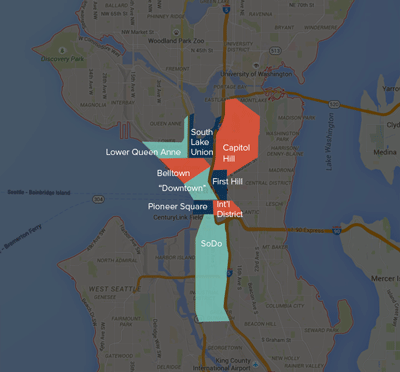
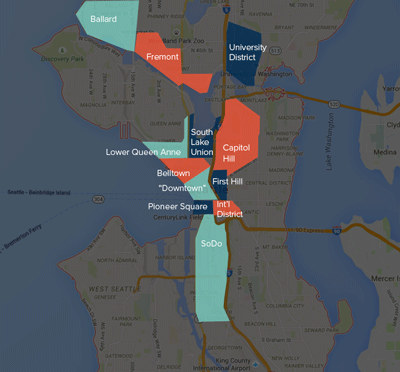
Finished layouts for Visiting Seattle and Registry across all responsive states

Changed region(s): [[0.18, 0.0, 0.54, 0.2661], [0.54, 0.0591, 0.66, 0.2366]]

diff --git a/index.html b/index.html
@@ -74,12 +74,15 @@
 					</div>
 					<div class="sectionContent">
 						<h3 >Where to Stay</h3>
+
+						<img id="neighborhoodMap" src="imgs/visitingSeattleMap_sm.png">
 							<p>Downtown, Belltown, Lower Queen Anne, Capital Hill, First Hill, South Lake Union, International District, and SoDo are a walk or bus ride from Seattle's most popular tourist attractions. Ballard, Fremont, or the University District are a little farther out, but can be feasible and less expensive. The University District has pretty good bus service to downtown, too. Street parking might be tricky, though.</p>
 
 							<p>Staying outside of downtown can mean you'll be in surban areas that don't have much going on, and getting to what you want to see might mean traffic and paying for parking. <a class="darkbg" href="https://www.airbnb.com/">AirBNB</a> can be a great alternative to hotels, both because they can be more affordable and because you can stay in a part of the city that Seattlites live in, too. </p>
 
-							<p><h4>See also</h4>
-								<ul class="seealso">
+							<div class="seealso">
+								<h4>See also</h4>
+								<ul>
 									<li>
 										<a class="darkbg" href="http://www.tripadvisor.com/Travel-g60878-s301/Seattle:Washington:Arriving.And.Departing.html">Arriving &amp; Departing Seattle</a>
 									</li>
@@ -93,7 +96,7 @@
 										<a class="darkbg" href="http://www.frommers.com/destinations/seattle/702031#sthash.PcgJSOXY.dpbs">Frommer's guide to Seattle neighborhoods</a>
 									</li>
 								</ul>
-							</p>
+							</div>
 						<h3>Parking &amp; Driving</h3>
 						<p>If you stay in the downtown corridor and don't plan to venture much outside of the neighborhoods listed in <a class="darkbg" href="">Where to Stay</a>, public transit can be a viable option. What you save in rental car fees may be offset by cost of housing, though, as it can be pricey. The area around the Westland Distillery has few public transit options on Saturday nights, unfortunately, so expect to take a cab or an Uber/Lyft to get there and back. </p>
 
@@ -102,14 +105,16 @@
 						<p>Street parking is a hassle, like in most cities. If you're renting a car, make sure to ask about your parking options before booking a place to stay. </p>
 
 						<h3>What to See &amp; Do</h3>
+						<img id="pikeplace" src="imgs/pikeplace.jpg">
 						<p>We picked September because the weather in Seattle is reliably pretty nice. Pack layers, but expect it to be relatively mild and, unless we're deeply unlucky, dry &#40;it turns out that it doesn't always rain in Seattle, but Seattlites prefer that you think it does&#41;. The days will be pretty long and the sunsets should be gorgeous.</p>
 
 						<p>We chose a weekend with no big events going on, but nice weather means that the locals are out and about as much as the tourists. Traffic might be a pain and trendy restaurants will be busier than usual, so plan ahead, especially if you're going anywhere that requires you to use a highway, cross a body of water, or both.</p>
 
 						<p>Seattle has a thriving music scene, great food and coffee, and more micro-breweries and micro-distilleries than you can shake a stick at. Each neighborhood has its own things to see and eat, to the point that Seattle can feel more like a collection of neighborhood islands more than a cohesive city. In the city proper, neighborhoods tend to be easily walkable, but if the word <q>hill</q> is in the name, you might be in for a workout. In the suburbs, a car is pretty necessary.</p>
 
-						<p><h4>See also</h4>
-							<ul class="seealso">
+						<div class="seealso">
+							<h4>See also</h4>
+							<ul>
 								<li>
 									<a class="darkbg" href="http://www.tripadvisor.com/Travel-g60878-c2242/Seattle:Washington:One.Day.Itinerary.Without.A.Car.html">Seattle: One Day Itinerary Without a Car</a>
 								</li>
@@ -118,7 +123,7 @@
 								<li><a class="darkbg" href="http://www.seattlemet.com/travel-and-outdoors/articles/30-day-trips-seattle-october-2011/2/">30 Perfect Seattle Day Trips</a>
 								</li>
 							</ul>
-						</p>
+						</div>
 					</div>
 				</div>
 			</section>
@@ -132,11 +137,11 @@
 						
 						<p>First off, thank you. Thank you for braving Seattle traffic, dealing with airports and jetlag, and breaking out your nice clothes, all for us. Just showing up at our wedding means a lot to both of us. </p>
 
-						<p>Usually, couples register for gifts to set up a new home. We already have a home and more stuff than really fits in it. In leiu of gifts, please consider donating to one of these charities: 
+						<p>Usually, couples register for gifts to set up a new home. We already have a home and more stuff than really fits in it. Also, we're driving to the wedding and then back to San Francisco, and we won't have a lot of room to bring things back with us. In leiu of gifts, please consider donating to one of these charities: 
 							<ul>
-								<li><a href="http://appcamp4girls.com/contribute/">App Camp for Girls</a></li>
-								<li><a href="https://donate.charitywater.org/donate">charity: water</a></li>
-								<li><a href="https://donate.splcenter.org/sslpage.aspx?pid=463">Southern Poverty Law Center</a></li>
+								<li><a href="http://appcamp4girls.com/contribute/"><img class="charityLogo" src="imgs/appCamp4Girls.png" alt="App Camp for Girls"></a></li>
+								<li><a href="https://donate.charitywater.org/donate"><img class="charityLogo" src="imgs/cwLogo.png" alt="charity: water"></a></li>
+								<li><a href="https://donate.splcenter.org/sslpage.aspx?pid=463"><img class="charityLogo" src="imgs/splcLogo.png" alt="Southern Poverty Law Center"></a></li>
 							</ul>
 							</p>
 
@@ -147,7 +152,9 @@
 			
 			<section>
 				<div id="photos">
-					
+					<div class="sectionHeader">
+						<h2>Photos</h2>
+					</div>
 				</div>
 			</section>
 		</div>

diff --git a/sass/screen.scss b/sass/screen.scss
@@ -75,14 +75,6 @@ a, a.darkbg {
 	@include selectanimation(all 0.3s ease-in);
 }
 
-
-.seealso {
-	color: -ts-color($darkgreen);
-	list-style-type: none;
-	margin-top: 0px;
-	padding-left: 0px;
-}
-
 // layout styles
 
 // menu styles
@@ -131,7 +123,7 @@ a, a.darkbg {
 		display:none;
 		width: span(full);
 		text-align: left;
-		background-color: -ts-color($silvergrey,0.8);
+		background-color: -ts-color($offwhite,0.8);
 		border-bottom: 1px solid -ts-color($darkblue,0.45);
 	}
 	#mobileMenu ul{
@@ -367,7 +359,7 @@ a, a.darkbg {
 		margin-left: 34rem;
 	}
 }
-// desktop fixes for wider and taller viewports
+// XL desktop fixes 
 @include breakpoint((min-width 1550px) (min-height 700px)){
 	.landingTitle{
 		padding-left:span(1 of 12);
@@ -399,11 +391,9 @@ h3 {
 
 h4 {
 	margin-bottom: 0.4rem;
+
 }
 
-#container{
-	background-color: -ts-color($silvergrey);
-}
 #container > section > div{
 	background-color: -ts-color($silvergrey, 0.94);
 	padding-bottom:20px;
@@ -428,8 +418,8 @@ h4 {
 }
 .sectionContent{
 	@include span(full);
-	padding-left:10px;
-	padding-right:10px;
+	padding-left:1rem;
+	padding-right:1rem;
 }
 .sectionContent h3{
 	@include span(full);
@@ -453,8 +443,8 @@ h4 {
 	}
 	.sectionContent{
 		@include span(full);
-		padding-left:10px;
-		padding-right:10px;
+		padding-left:1.5rem;
+		padding-right:1.5rem;
 	}
 	.sectionContent h3{
 		@include span(full);
@@ -490,9 +480,6 @@ h4 {
 	@include span(full);
 	min-height:750px;
 }
-#festivities > .sectionHeader{
-	
-}
 #map{
 	@include span(full);
 	padding-bottom:0.9rem;
@@ -513,6 +500,7 @@ h4 {
 
 	#tacos{
 		@include span(4 of 12);
+		padding-left:0.3rem;
 		float:right;
 	}
 
@@ -526,7 +514,6 @@ h4 {
 
 	#tacos{
 		@include span(3 of 12);
-		padding-left:0.3rem;
 		float:right;
 	}
 }
@@ -538,7 +525,6 @@ h4 {
 
 	#tacos{
 		@include span(2 of 12);
-		padding-left:0.3rem;
 		float:right;
 	}
 }
@@ -547,40 +533,98 @@ h4 {
 	@include span(full);
 	min-height:1550px;
 }
+#seattle .sectionHeader > h2{
+	padding-left:span(1.5 of 12);
+}
 
-#seattleHeader{
+#neighborhoodMap{
 	@include span(full);
-	height:200px;
-	overflow:hidden;
-	background-color: #ede6d1;
-	background: url("../imgs/spaceneedle.jpg")no-repeat; 
-  	color: -ts-color($darkblue);
+	padding-bottom:0.9rem;
+}
+#pikeplace{
+	@include span(full);
+	padding-bottom:0.9rem;
+}
+.seealso {
+	@include span(full);
+}
+.seealso > ul{
+	color: -ts-color($darkgreen);
+	list-style-type: none;
+	padding-left: 0px;
+	margin-top: 0px;
+}
+
+//tablet styles
+@include breakpoint(700px){
+	#seattle .sectionHeader > h2{
+		padding-left:span(6 of 12);
+	}
+	#neighborhoodMap{
+		@include span(6 of 12);
+	}	
+	#pikeplace{
+		@include span(4 of 12);
+			float:right;
+			padding-left:0.3rem;
+	}
+	.seealso{
+		margin-left: span(1 of 12);
+	}
+}
+//desktop styles
+@include breakpoint(1000px){
+	#neighborhoodMap{
+		@include span(4 of 12);
+	}	
+	#pikeplace{
+		@include span(3 of 12);
+	}
+	.seealso{
+		margin-left: span(1 of 12);
+		font-size: 1.1rem;
+	}
 }
 //registry styles
+//mobile styles
 #registry{
 	@include span(full);
-	min-height:100vh;
-	background-color:-ts-color($offwhite);
-	//padding-top:80px;
-	background-image:url("../imgs/triangleTexture.svg");
-	background-size:275% 275%;
-	background-position:center center;
-	background-repeat: no-repeat;
+	min-height:500px;
 }
-#registryHeader{
-	@include span(full);
-	height:200px;
-	overflow:hidden;
-	background-image: url("../imgs/betterDays.jpg");
-	background-repeat: no-repeat;
-	color: -ts-color($coral);
+#registry .sectionContent > ul{
+	list-style:none;
+	padding-left:0;
+}
+.charityLogo{
+	width:span(full);
+}
+//tablet styles
+@include breakpoint(700px){
+	.charityLogo{
+		width: span(6 of 12);
+	}
+	#registry .sectionContent > ul > li{
+		display: inline;
+		&:last-of-type{
+			display:block;
+		}
+	}
+}
+//desktop styles
+@include breakpoint(1000px){
+	.charityLogo{
+		width: span(4 of 12);
+	}
+	#registry .sectionContent > ul > li{
+		display: inline;
+		&:last-of-type{
+			display:inline;
+		}
+	}
 }
 //photos styles
 #photos{
 	@include span(full);
-	color: $offwhite;
-	height:800px;
-	background-color: -ts-color($darkblue);
-	padding-top:80px;
+	min-height:500px;
 }
 
